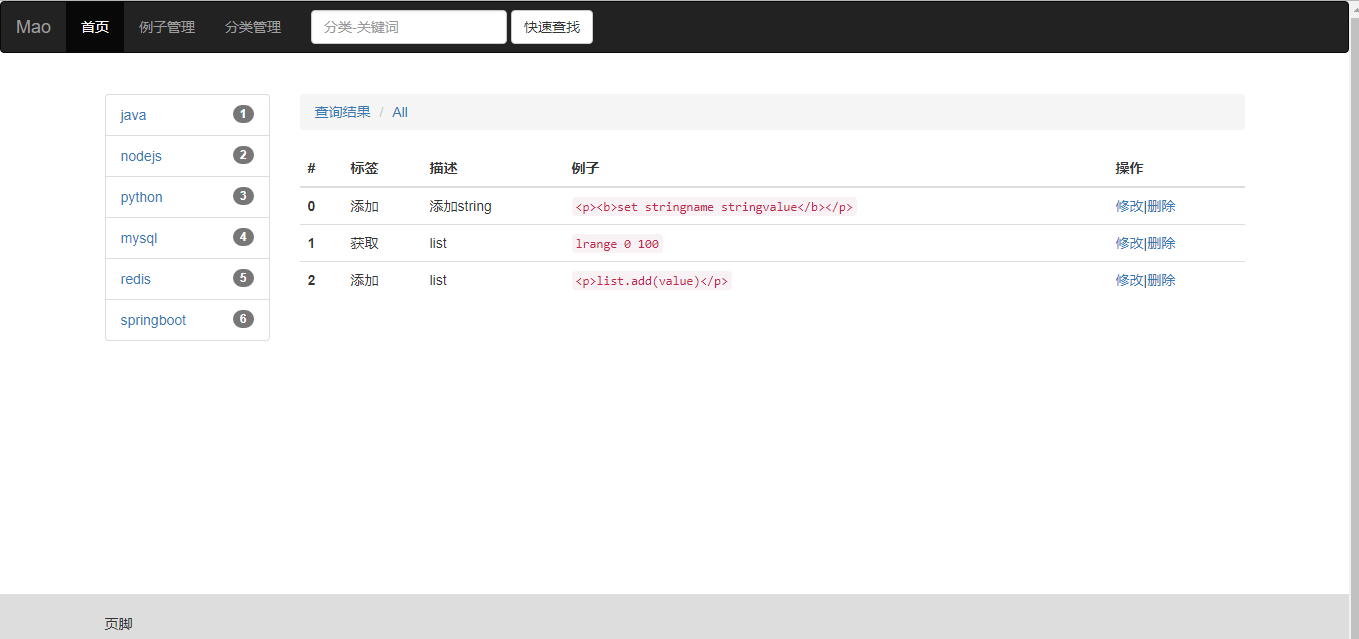
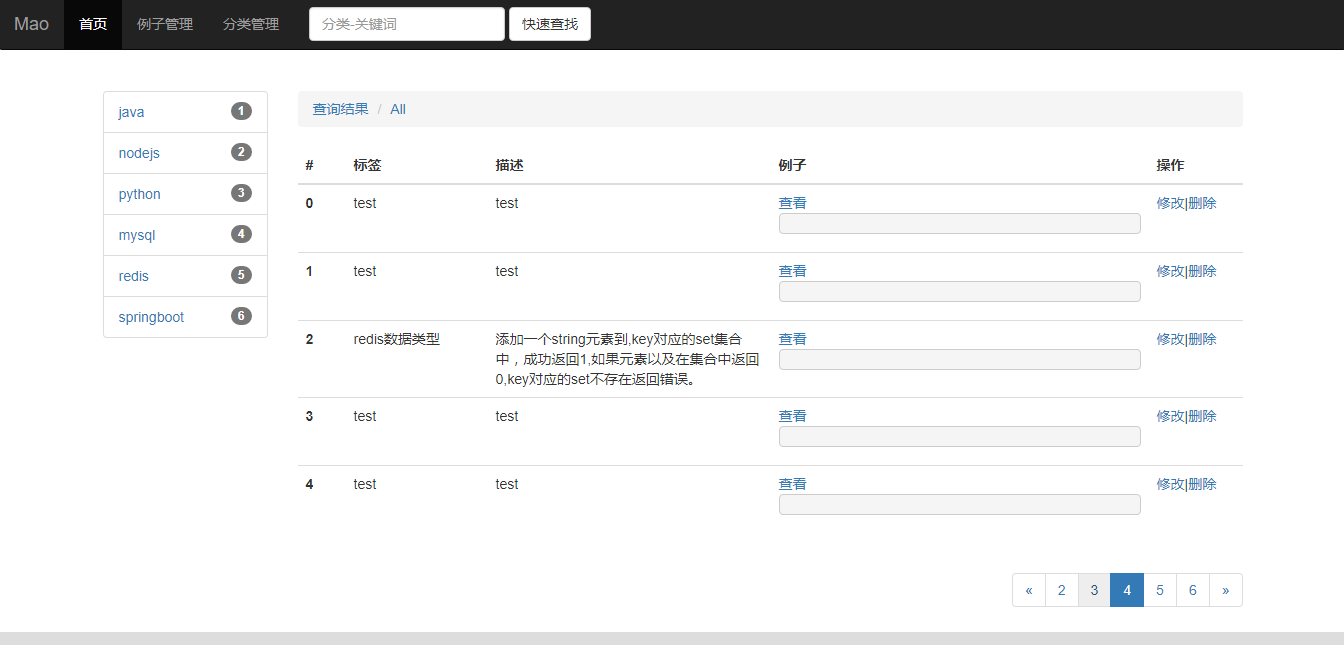
加上简单分页

diff --git a/static/home.html b/static/home.html
@@ -11,10 +11,10 @@
     <script src="https://cdn.jsdelivr.net/vue.resource/1.0.3/vue-resource.min.js"></script>
     <style type="text/css">
     .cut {
-        overflow:hidden;
-        text-overflow:ellipsis;
-        white-space: nowrap; 
-        }
+        overflow: hidden;
+        text-overflow: ellipsis;
+        white-space: nowrap;
+    }
     </style>
     <script>
     function showError(resp) {
@@ -34,6 +34,9 @@
                 examples: [],
                 title: 'All',
                 keyword: '',
+                currentpage: 1,
+                totalpage: '',
+                showpage: [],
                 loading: false
             },
             created: function() {
@@ -52,18 +55,37 @@
                         that.loading = false;
                         showError(resp);
                     });
-                    that.$resource('/api/example/list').get().then(function(resp) {
+                    that.listbypage();
+                },
+                listbypage: function(page){
+                    if(page){
+                        this.currentpage = page;
+                    }
+                    var that = this;
+                    that.$resource('/api/example/list/' + that.currentpage).get().then(function(resp) {
                         resp.json().then(function(result) {
                             that.examples = result.examples;
+                            that.totalpage = parseInt(result.total/10) + 1;
+                            var current = that.currentpage;
+                            var total = that.totalpage;
+                            var start = current - 2 < 1 ? 1 : current - 2;
+                            var end = current + 2 > total ? total : current + 2;
+                            if(end < 5) end = 5;
+                            if(start > total - 5) start = total - 5;
+                            var temp = [];
+                            for(;start <= end;start++){
+                                temp.push(start);
+                            }
+                            that.showpage = temp;
                         });
                     }, function(resp) {
                         showError(resp);
                     });
                 },
-                list: function(index) {
+                listbycat: function(index) {
                     var that = this;
                     let category = that.categorys[index];
-                    that.$resource('/api/example/list/' + category.id).get().then(function(resp) {
+                    that.$resource('/api/example/category/' + category.id).get().then(function(resp) {
                         resp.json().then(function(result) {
                             that.examples = result.examples;
                             that.title = category.name;
@@ -85,14 +107,14 @@
                 remove: function(index) {
                     var that = this;
                     var example = that.examples[index];
-                    var r = confirm("确定删除数据"+ index +"？");
-                    if(r){
+                    var r = confirm("确定删除数据" + index + "？");
+                    if (r) {
                         that.$resource('/api/example/delete/' + example.id).delete().then(function(resp) {
                             that.examples.splice(index, 1);
                         }, showError);
-                    }   
+                    }
                 },
-                edit: function(index){
+                edit: function(index) {
                     localStorage.name = this.examples[index].id;
                     location.href = 'example.html';
                 }
@@ -110,7 +132,7 @@
             },
             methods: {
                 search: function() {
-                    if(!this.keyword){
+                    if (!this.keyword) {
                         return;
                     }
                     var that = this;
@@ -125,11 +147,11 @@
         });
     });
 
-    function seedemo(that){
+    function seedemo(that) {
         var span = $(that).next();
-        if(span.html() != ''){
+        if (span.html() != '') {
             span.html('');
-        }else{
+        } else {
             var htmlstr = $(that).prev().val();
             span.html(htmlstr);
         }
@@ -175,51 +197,67 @@
             <div class="col-md-2">
                 <p v-if="loading">Loading...</p>
                 <ul class="list-group">
-                  <li class="list-group-item" v-for="(t,index) in categorys" :key="t.id" v-on:click="list(index)">
-                    <span class="badge">{{t.sort}}</span>
-                    <a>{{ t.name }}</a>
-                  </li>
+                    <li class="list-group-item" v-for="(t,index) in categorys" :key="t.id" v-on:click="listbycat(index)">
+                        <span class="badge">{{t.sort}}</span>
+                        <a>{{ t.name }}</a>
+                    </li>
                 </ul>
-                
             </div>
-
             <div class="col-md-10" style="min-height: 500px">
                 <ol class="breadcrumb">
-                  <li><a href="#" onclick="change">查询结果</a></li>
-                  <li><a href="#">{{title}}</a></li>
+                    <li><a href="#" onclick="change">查询结果</a></li>
+                    <li><a href="#">{{title}}</a></li>
                 </ol>
-
                 <!-- Table -->
                 <table class="table table-hover">
-        <thead>
-          <tr>
-            <th width="5%">#</th>
-            <th width="15%">标签</th>
-            <th width="30%">描述</th>
-            <th width="40%">例子</th>
-            <th width="10%">操作</th>
-          </tr>
-        </thead>
-        <tbody>
-          <tr v-for="(t,index) in examples">
-            <th scope="row">{{index}}</th>
-            <td>{{t.tag}}</td>
-            <td>{{t.description}}</td>
-            <td><textarea style="display: none;">{{t.demo}}</textarea>
-                <a onclick="seedemo(this)" >查看</a>
-                <span></span>
-            </td>
-            <td><a v-on:click="edit(index)">修改</a>|<a v-on:click="remove(index)">删除</a></td>
-          </tr>
-        </tbody>
-      </table>
+                    <thead>
+                        <tr>
+                            <th width="5%">#</th>
+                            <th width="15%">标签</th>
+                            <th width="30%">描述</th>
+                            <th width="40%">例子</th>
+                            <th width="10%">操作</th>
+                        </tr>
+                    </thead>
+                    <tbody>
+                        <tr v-for="(t,index) in examples">
+                            <th scope="row">{{index}}</th>
+                            <td>{{t.tag}}</td>
+                            <td>{{t.description}}</td>
+                            <td>
+                                <textarea style="display: none;">{{t.demo}}</textarea>
+                                <a onclick="seedemo(this)">查看</a>
+                                <pre></pre>
+                            </td>
+                            <td><a v-on:click="edit(index)">修改</a>|<a v-on:click="remove(index)">删除</a></td>
+                        </tr>
+                    </tbody>
+                </table>
+                <nav aria-label="Page navigation" style="float:right;">
+                    <ul class="pagination">
+                        <li v-if="currentpage>1" v-on:click="currentpage--,listbypage()">
+                            <a href="#" aria-label="Previous">
+                                <span aria-hidden="true">&laquo;</span>
+                              </a>
+                        </li>
+                        <li v-for="index in showpage" v-bind:class="{'active':currentpage == index}">
+                        <a v-on:click="listbypage(index)" href="#">{{index}}</a>
+                        </li>
+                        <li v-if="currentpage < totalpage" v-on:click="currentpage++,listbypage()">
+                            <a href="#" aria-label="Next">
+                                <span aria-hidden="true">&raquo;</span>
+                              </a>
+                        </li>
+                    </ul>
+                </nav>
             </div>
-            
-        </div></div>
+        </div>
+    </div>
     <footer style="background-color:#ddd; padding: 20px 0;">
         <div class="container">
             <p>页脚</p>
         </div>
     </footer>
 </body>
+
 </html>

diff --git a/static/example.html b/static/example.html
@@ -4,7 +4,7 @@
 <head>
     <meta charset="utf-8">
     <meta name="viewport" content="width=device-width,initial-scale=1">
-    <title>index</title>
+    <title>例子管理</title>
     <link rel="stylesheet" href="/static/css/bootstrap.min.css">
     <script src="/static/js/jquery.min.js"></script>
     <script src="/static/js/bootstrap.min.js"></script>
@@ -182,7 +182,8 @@
                             <div class="form-group">
                                 <label class="col-sm-4 control-label">例子描述:</label>
                                 <div class="col-sm-8">
-                                    <input type="text" v-model="description" class="form-control" placeholder="">
+                                    <textarea v-model="description" class="form-control" style="min-height: 200px">
+                                    </textarea>
                                 </div>
                             </div>
                             <button v-on:click="create" type="button" class="btn btn-default">新增</button>

diff --git a/controllers/api.js b/controllers/api.js
@@ -65,14 +65,22 @@ module.exports = {
     },
 
     
-    'GET /api/example/list': async (ctx, next) => {
-        var examples = await Example.findAll();
+    'GET /api/example/list/:page': async (ctx, next) => {
+        var currentPage = ctx.params.page || 1;
+        var pageSize = ctx.params.pagesize || 5;
+        var offset = (currentPage - 1) * pageSize;
+
+        var examples = await Example.findAndCountAll({
+            offset: offset,
+            limit: pageSize
+        });
         ctx.rest({
-            examples: examples
+            examples: examples.rows,
+            total: examples.count
         });
     },
 
-    'GET /api/example/list/:id': async (ctx, next) => {
+    'GET /api/example/category/:id': async (ctx, next) => {
         var examples = await Example.findAll({
             where: {
                 category: ctx.params.id

diff --git a/static/category.html b/static/category.html
@@ -50,7 +50,7 @@
                     var that = this;
                     var t = {
                         name: that.name,
-                        sort: that.sort | 999
+                        sort: that.sort || 999
                     };
                     that.$resource('/api/category/save').save(t).then(function(resp) {
                         resp.json().then(function(result) {
@@ -64,7 +64,7 @@
                     var that = this;
                     var t = {
                         name: that.name,
-                        sort: that.sort | 999
+                        sort: that.sort || 999
                     };
                     that.$resource('/api/category/update/' + that.selected).update(t).then(function(resp) {
                         resp.json().then(function(r) {
